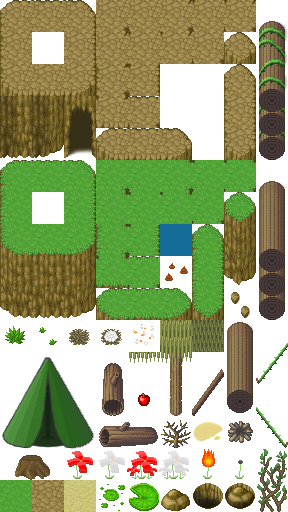
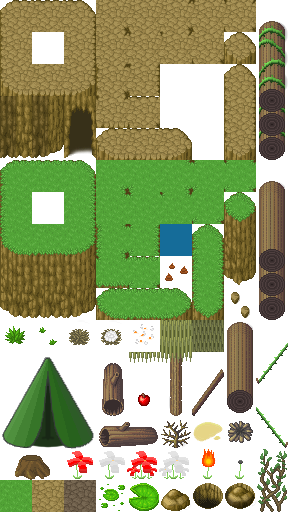
Avances en el nivel, tile de arena sustituida por tierra oscura

Changed region(s): [[0.2188, 0.9375, 0.3438, 1.0]]

diff --git a/neluBackend/src/main/resources/static/scripts/scenes/BC_SingleGame.js b/neluBackend/src/main/resources/static/scripts/scenes/BC_SingleGame.js
@@ -74,8 +74,6 @@ DirtWall4 10 10 0
 Tree 9 6 0
 Dirt21 -3 10 2 1 1
 DirtWall2 -3 10 0
-DirtWall2 21 3 0
-DirtWall2 19 3 0
 Dirt24 -3 11 2 1 6
 Dirt17 19 10 2 1 1
 Dirt -2 11 2 21 6
@@ -237,9 +235,7 @@ Cave 54 -8 0
 DirtWall2 55 -8 0
 DirtWall2 56 -8 0
 DirtWall2 53 -8 0
-DirtWall2 52 -8 0
 DirtWall2 58 -8 0
-DirtWall2 59 -8 0
 Dirt21 52 -8 2 1 1
 BindWeed 67 -10 0 1 2
 BindWeed 67 -9 0 1 2
@@ -252,14 +248,11 @@ Dirt25 59 -7 2 1 2
 Dirt22 61 -4 2 1 1
 Dirt23 60 -5 2 1 1
 Dirt23 62 -4 2 1 1
-DirtWall2 60 -5 0
 DirtWall2 61 -4 0
-DirtWall2 62 -4 0
 DirtWall2 63 -3 0
 DirtWall2 64 -3 0
 Dirt23 65 -3 2 1 1
 Dirt22 63 -3 2 2 1
-DirtWall2 65 -3 0
 Dirt 59 -2 2 7 3
 BigLogPack 43 -11 0
 WoodStick 42.09921646118164 -9.655854225158691 0
@@ -400,7 +393,6 @@ Dirt 98 -24 2 5 1
 Dirt27 103 -24 2 1 1
 Dirt23 104 -31 2 1 1
 Dirt25 104 -30 2 1 6
-DirtWall2 104 -31 0
 DirtWall2 100 -35 0
 Tree 73 -10 0
 Dirt 84 -35 2 5 6
@@ -483,7 +475,6 @@ DryPlant 103 -11 0
 LogVertical 105 -16 0.05 1 2
 LogVertical 101.39519500732422 -13.020109176635742 0.05 1 2
 LogHorizontal 97.36654663085938 -11.499921798706055 0
-DirtWall2 99 -10 0
 Cave 100 -10 0
 Cave 101 -10 0
 Cave 102 -10 0
@@ -493,8 +484,6 @@ Dirt 99 -9 2 7 4
 Dirt22 100 -10 2 5 1
 Dirt21 99 -10 2 1 1
 Dirt21 98 -9 2 1 1
-DirtWall2 98 -9 0
-DirtWall2 106 -9 0
 Dirt23 105 -10 2 1 1
 Dirt23 106 -9 2 1 1
 Dirt25 106 -8 2 1 2
@@ -504,7 +493,6 @@ Dirt24 98 -8 2 1 2
 Dirt26 98 -6 2 1 1
 Dirt26 99 -5 2 1 1
 Dirt27 100 -5 2 5 1
-DirtWall2 105 -10 0
 BoxColliderScalable 81 -19 0 9 1
 BoxColliderScalable 88 -18 0 1 2
 Nest 73.76563262939453 -10.973611831665039 0.05
@@ -597,8 +585,6 @@ Tree 158.6302032470703 -31.501708984375 0
 Tree 162.47291564941406 -31.0983943939209 0
 Tree 165.85153198242188 -31.61402702331543 0
 Tree 168.7955322265625 -31.195199966430664 0
-Grass 146 -29 0 29 17
-Grass 175 -29 0 29 17
 Grass 193 -35 0 35 6
 WaterTop 202 -36 0 29 1
 Grass 204 -29 0 29 17
@@ -687,14 +673,12 @@ Grass 66 -43 0 22 31
 WaterBottom 86 -44 0 48 1
 Grass 88 -35 0 35 6
 Dirt23 102 -35 2 1 1
-DirtWall2 102 -35 0
 Dirt22 100 -35 2 2 1
 DirtWall2 97 -35 0
 DirtWall2 101 -35 0
 Dirt25 103 -32 2 1 1
 Dirt23 103 -33 2 1 1
 Dirt25 102 -34 2 1 1
-DirtWall2 103 -33 0
 Dirt 89 -34 2 13 3
 Dirt 102 -33 2 1 3
 BoxColliderScalable 102 -35 0 1 3
@@ -760,4 +744,243 @@ BindWeed 85 -15 0.05 1 2
 BoxColliderScalable 85 -12 0 3 2
 BoxColliderScalable 88 -11 0 3 1
 Tree 85.1075439453125 -11.556352615356445 0
+DirtWall3 105 -10 0
+DirtWall3 106 -9 0
+DirtWall1 99 -10 0
+DirtWall1 98 -9 0
+DirtWall3 59 -8 0
+DirtWall3 60 -5 0
+DirtWall3 65 -3 0
+DirtWall3 62 -4 0
+DirtWall1 52 -8 0
+DirtWall1 19 3 0
+DirtWall3 21 3 0
+Dirt 82 -23 2 2 1
+Dirt 83 -22 2 1 1
+DirtWall3 102 -35 0
+DirtWall3 103 -33 0
+DirtWall3 104 -31 0
+Grass 146 -29 0 23 6
+Grass 169 -29 0 23 6
+Grass 192 -29 0 12 6
+Grass 146 -23 0 23 6
+Dirt22 176 -20 0 4 1
+Grass 176 -21 0 5 1
+DirtWall1 180 -21 0
+DirtWall1 181 -23 0
+DirtWall1 171 -23 0
+DirtWall3 184 -23 0
+DirtWall3 175 -21 0
+DirtWall3 175 -22 0
+DirtWall1 170 -20 0
+DirtWall2 182 -23 0
+DirtWall2 183 -23 0
+DirtWall2 172 -23 0
+DirtWall2 173 -23 0
+Grass 169 -23 0 6 7
+Grass 176 -23 0 5 2
+Dirt23 175 -21 2 1 1
+Dirt23 174 -23 2 1 1
+Dirt25 174 -22 2 1 1
+Dirt21 171 -23 2 1 1
+Dirt21 170 -20 2 1 1
+Dirt22 172 -23 2 2 1
+Dirt22 182 -23 2 2 1
+Dirt23 184 -23 2 1 1
+Dirt21 181 -23 2 1 1
+Dirt21 180 -21 2 1 1
+Dirt25 184 -22 2 1 2
+Dirt24 181 -22 2 1 1
+Dirt24 171 -22 2 1 2
+Dirt 172 -21 2 3 1
+Dirt 172 -22 2 2 1
+Dirt 182 -22 2 2 1
+Dirt 181 -21 2 3 1
+Dirt25 175 -20 2 1 8
+Dirt28 175 -12 2 1 1
+Dirt 171 -20 2 4 8
+Dirt 181 -20 2 4 8
+DirtWall1 169 -18 0
+DirtWall1 168 -17 0
+Dirt24 170 -19 2 1 1
+Dirt21 169 -18 2 1 1
+Dirt21 168 -17 2 1 1
+Grass 146 -17 0 23 6
+Grass 169 -18 0 6 7
+DirtWall2 167 -16 0
+DirtWall2 166 -16 0
+DirtWall2 165 -16 0
+DirtWall2 164 -16 0
+DirtWall2 163 -16 0
+DirtWall2 162 -16 0
+DirtWall2 161 -16 0
+DirtWall2 160 -16 0
+DirtWall2 159 -16 0
+DirtWall2 158 -16 0
+DirtWall2 157 -16 0
+Dirt22 157 -16 2 11 1
+Dirt 169 -17 2 2 2
+Dirt 157 -15 2 14 3
+DirtWall3 186 -18 0
+DirtWall3 187 -17 0
+DirtWall2 188 -16 0
+DirtWall2 189 -16 0
+DirtWall2 190 -16 0
+DirtWall2 191 -16 0
+DirtWall2 192 -16 0
+DirtWall2 193 -16 0
+DirtWall2 194 -16 0
+DirtWall2 195 -16 0
+DirtWall2 196 -16 0
+Dirt23 186 -18 2 1 1
+Dirt23 187 -17 2 1 1
+Dirt22 188 -16 2 14 1
+DirtWall2 197 -16 0
+DirtWall2 198 -16 0
+DirtWall2 199 -16 0
+DirtWall2 200 -16 0
+DirtWall2 201 -16 0
+Grass 186 -23 0 18 7
+Grass 181 -23 0 6 7
+DirtWall3 185 -20 0
+Dirt25 185 -19 2 1 1
+Dirt23 185 -20 2 1 1
+Dirt 185 -17 2 2 2
+Dirt 185 -18 2 1 1
+Dirt 187 -16 2 1 1
+Grass 188 -16 0 16 1
+Dirt27 167 -12 2 8 1
+Cave 172 3 0
+Cave 183 3 0
+DirtWall1 181 3 0
+DirtWall3 174 3 0
+BigLogPackLiana 181 6 0
+Dirt21 181 3 2 1 1
+LianaLeft 181.90390014648438 7.96182918548584 0
+LianaLeft 181.91940307617188 7.046613693237305 0
+LianaLeft 181.9503936767578 6.1313982009887695 0
+Dirt25 166 -11 2 1 8
+Dirt28 166 -3 2 1 1
+Dirt23 166 1 2 1 1
+Dirt25 166 2 2 1 1
+DirtWall2 171 3 0
+DirtWall2 169 3 0
+DirtWall2 167 3 0
+Cave 170 3 0
+Cave 168 3 0
+Cave 185 3 0
+Cave 187 3 0
+DirtWall2 184 3 0
+DirtWall2 186 3 0
+DirtWall2 166 1 0
+Dirt 157 -12 2 9 9
+Dirt17 168 -16 2 1 1
+Dirt17 170 -18 2 1 1
+Dirt11 166 -12 2 1 1
+CampLog 168 -9 0
+CampLog 170 -9 0
+CampLog 172 -9 0
+CampTop2 168 -9 2
+CampTop2 169 -9 2
+CampTop2 170 -9 2
+CampTop2 171 -9 2
+CampTop2 172 -9 2
+CampTop3 168 -7 2
+CampTop3 169 -7 2
+CampTop3 170 -7 2
+CampTop3 171 -7 2
+CampTop3 172 -7 2
+CampTop1 171 -10 2
+CampTop1 169 -10 2
+CampTop2 172 -8 2
+CampTop2 171 -8 2
+CampTop2 170 -8 2
+CampTop2 169 -8 2
+CampTop2 168 -8 2
+CampLog 172 -6 0
+CampLog 170 -6 0
+CampLog 168 -6 0
+CampTop1 171 -7 2
+CampTop1 169 -7 2
+Dirt24 181 4 2 1 1
+Dirt 185 -15 2 10 3
+BigLogPackLiana 186 -9 0
+LianaRight 185.09939575195312 -6.939231872558594 0
+LianaRight 185.17686462402344 -7.807910919189453 0
+LianaRight 185.19236755371094 -8.676589965820312 0
+Dirt22 182 3 2 7 1
+Dirt2 187 -7 2 4 1
+Dirt1 186 -7 2 1 1
+DirtWall1 186 -7 0
+DirtWall2 187 -7 0
+DirtWall2 188 -7 0
+DirtWall2 189 -7 0
+DirtWall2 190 -7 0
+FireFlower 176 -1 0
+LifeFlowerBig 179 -1 0
+LogHorizontal 176.86273193359375 -0.3735666275024414 0
+LogVertical 175.2047882080078 -3.0106282234191895 0
+LogVertical 179.99267578125 -3.0106282234191895 0
+Nest 174.5230255126953 -4.701450347900391 0.05
+Nest 175.18930053710938 -4.825547218322754 0.05
+Nest 176.2894287109375 -4.034428596496582 0.05
+Nest 170.58734130859375 -1.5524883270263672 0.05
+BrokenEggs 170.8507537841797 -1.8317065238952637 0.05
+BrokenEggs 173.6398162841797 -2.6073131561279297 0.05
+BrokenEggs 177.62197875976562 -2.14194917678833 0.05
+BrokenEggs 178.5361785888672 -2.6073131561279297 0.05
+BrokenEggs 177.0796661376953 -3.7086739540100098 0.05
+BrokenEggs 176.70779418945312 -2.8089704513549805 0.05
+Campfire 177.66847229003906 -2.9640917778015137 0.05 1 1
+BrokenEggs 178.0713348388672 -3.863795280456543 0.05
+BrokenEggs 178.9390411376953 -3.3363828659057617 0.05
+Nest 174.95687866210938 -4.018916130065918 0
+Campfire 169 -4 0.05 1 1
+Campfire 187 -3 0.05 1 1
+Campfire 183 0 0.05 1 1
+Campfire 174 -8 0.05 1 1
+Dirt23 181 8 2 1 1
+DirtWall2 182 3 0
+DirtWall2 175 8 0
+DirtWall2 176 8 0
+DirtWall2 177 8 0
+DirtWall2 178 8 0
+DirtWall2 179 8 0
+DirtWall2 180 8 0
+DirtWall3 181 8 0
+DirtWall2 174 8 0
+DirtWall2 173 8 0
+DirtWall2 172 8 0
+DirtWall2 171 8 0
+DirtWall2 170 8 0
+Dirt25 169 4 2 1 4
+Dirt22 170 8 2 11 1
+Grass7 170 7 0.05 1 1
+Grass7 171.51983642578125 6.409393787384033 0.05 1 1
+Grass7 170.481689453125 5.835444927215576 0.05 1 1
+Grass7 171.19444274902344 7.1074395179748535 0.05 1 1
+Grass7 172.21710205078125 5.602763652801514 0.05 1 1
+Grass7 170.1407928466797 6.300809383392334 0.05 1 1
+DirtWall2 170 4 0
+DirtWall2 172 4 0
+Dirt22 167 3 2 3 1
+Dirt2 170 3 2 4 1
+DirtWall2 173 3 0
+Dirt3 174 3 2 1 1
+DirtWall2 173.99778747558594 3.5145840644836426 0
+Dirt27 181 -12 2 5 1
+Dirt24 180 -20 2 1 8
+Dirt26 180 -12 2 1 1
+Dirt24 186 -11 2 1 1
+Dirt26 186 -10 2 1 1
+BindWeed 179 -12 0.5 1 2
+BindWeed 178 -12 0.5 1 2
+BindWeed 177 -12 0.5 1 2
+BindWeed 176 -12 0.5 1 2
+RockHole 167 0 0.05 1 1
+RockHole 167 -1 0.05 1 1
+RockHole 167 -2 0.05 1 1
+BrokenEggs 168.90414428710938 -1.5933228731155396 0.05
+Dirt27 187 -10 2 5 1
+Dirt 222 5 0 4 8
 `
